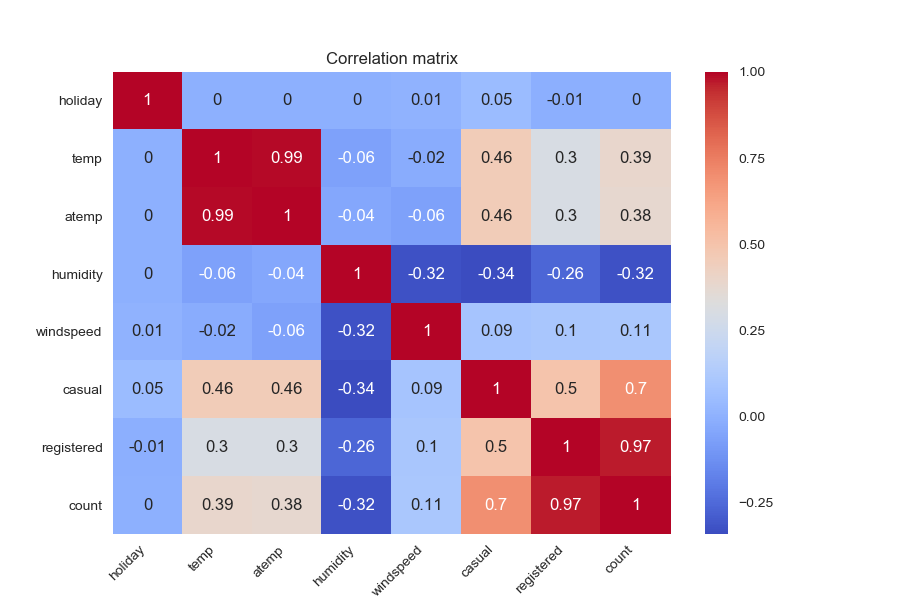
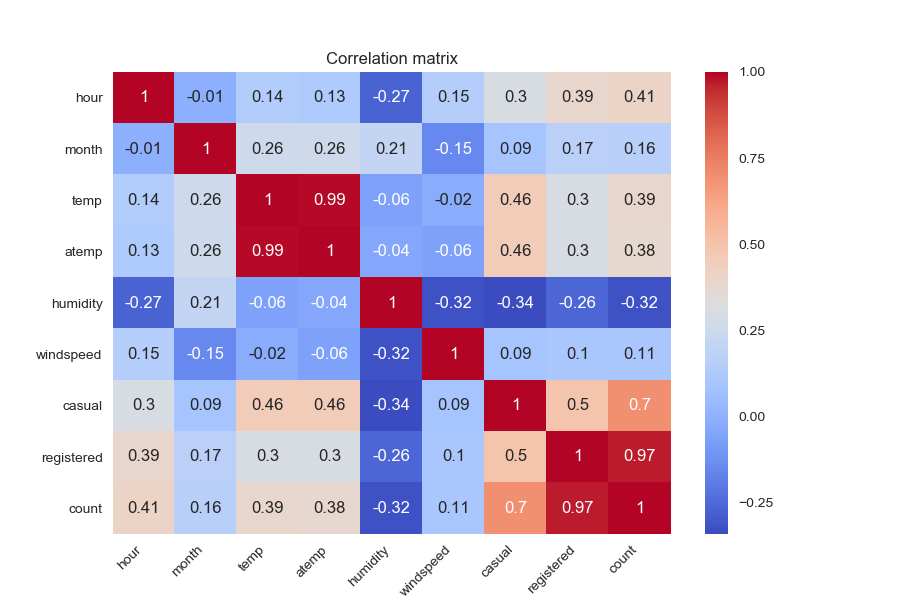
5/8

diff --git a/bikesharing.py b/bikesharing.py
@@ -7,13 +7,14 @@ sns.set()
 
 
 dataframe["hour"]=pd.DataFrame(dataframe.datetime.apply(lambda x:x.split()[1].split(":")[0]))
+dataframe['hour'] = dataframe['hour'].astype('int64')
 dataframe["month"]=pd.DataFrame(dataframe.datetime.apply(lambda x:x.split()[0].split("-")[1]))
+dataframe['month'] = dataframe['month'].astype('int64')
 dataframe["season"]=dataframe.season.map({1:"spring",2:"summer",3:"fall",4:"winter"})
-dataframe["workingday"]=dataframe.workingday.map({0:"no",1:"yes"})
+#dataframe["workingday"]=dataframe.workingday.map({0:"no",1:"yes"})
 dataframe["weather"]=dataframe.weather.map({1:"Clear",2:"Mist + Cloudy",3:"Light Snow",4:"Heavy Rain"})
 
 #Count distribution
-
 quartiles = pd.cut(dataframe["count"],10)
 def get_stats(group):
     return {'counts': group.sum()}
@@ -21,9 +22,6 @@ def get_stats(group):
 grouped = dataframe["count"].groupby(quartiles)
 count_distribution_amount = grouped.apply(get_stats).unstack()
 df=pd.DataFrame(count_distribution_amount)
-
-
-
 df.plot(kind='bar',figsize=(9, 7),rot=45)
 plt.title("count distribution")
 plt.show()
@@ -31,29 +29,35 @@ plt.show()
 
 
 #Removal of outliers 
-
 upper_bound=dataframe['count'].mean()+3*dataframe['count'].std()
 lower_bound=dataframe['count'].mean()-3*dataframe['count'].std()
 dataframe=dataframe[dataframe["count"]<upper_bound]
 dataframe=dataframe[dataframe["count"]>lower_bound]
 
+
+#Correlation matrix
+corr_data=dataframe[['hour','month','temp','atemp','humidity','windspeed','casual','registered','count']]
+corr = corr_data.corr()
+corr=corr.round(2)
+f, ax = plt.subplots(figsize=(9, 6))
+sns.heatmap(corr, xticklabels=corr.columns,yticklabels=corr.columns,annot=True,cmap='coolwarm')
+label_y = ax.get_yticklabels()
+plt.setp(label_y, rotation=360, horizontalalignment='right')
+label_x = ax.get_xticklabels()
+plt.setp(label_x, rotation=45, horizontalalignment='right')
+plt.title("Correlation matrix")
+plt.show()
+
+
+
+
+
+
 #weather statistics
-
-Clear_casual=dataframe[dataframe["weather"]=="Clear"]["casual"].sum()
-Mist_casual=dataframe[dataframe["weather"]=="Mist + Cloudy"]["casual"].sum()
-Snow_casual=dataframe[dataframe["weather"]=="Light Snow"]["casual"].sum()
-Rain_casual=dataframe[dataframe["weather"]=="Heavy Rain"]["casual"].sum()
-
-Clear_registered=dataframe[dataframe["weather"]=="Clear"]["registered"].sum()
-Mist_registered=dataframe[dataframe["weather"]=="Mist + Cloudy"]["registered"].sum()
-Snow_registered=dataframe[dataframe["weather"]=="Light Snow"]["registered"].sum()
-Rain_registered=dataframe[dataframe["weather"]=="Heavy Rain"]["registered"].sum()
-
-index=["Clear","Mist","Snow","Rain"]
-values1=[Clear_registered,Mist_registered,Snow_registered,Rain_registered]
-values2=[Clear_casual,Mist_casual,Snow_casual,Rain_casual]
-plt.bar(index,values1,color='blue')
-plt.bar(index,values2,color='red',bottom=values1)
+casual=dataframe.groupby('weather')['casual'].sum()
+registered=dataframe.groupby('weather')['registered'].sum()
+plt.bar(registered.index,registered.values,color='blue')
+plt.bar(casual.index,casual.values,color='red',bottom=registered.values)
 plt.title("Weather statistics bar chart ")
 plt.legend(["number of registered user ","number of non-registered user"])
 plt.show()
@@ -61,11 +65,11 @@ plt.show()
 
 
 # hours statistics with weather
-
 clear_data=dataframe[dataframe["weather"]=="Clear"]
 mist_data=dataframe[dataframe["weather"]=="Mist + Cloudy"]
 snow_data=dataframe[dataframe["weather"]=="Light Snow"]
 rain_data=dataframe[dataframe["weather"]=="Heavy Rain"]
+
 
 y1=clear_data.groupby('hour')['count'].mean()
 y2=mist_data.groupby('hour')['count'].mean()
@@ -123,14 +127,5 @@ plt.show()
 
 
 
-#Correlation matrix
-corr = dataframe.corr()
-corr=corr.round(2)
-f, ax = plt.subplots(figsize=(9, 6))
-sns.heatmap(corr, xticklabels=corr.columns,yticklabels=corr.columns,annot=True,cmap='coolwarm')
-label_y = ax.get_yticklabels()
-plt.setp(label_y, rotation=360, horizontalalignment='right')
-label_x = ax.get_xticklabels()
-plt.setp(label_x, rotation=45, horizontalalignment='right')
-plt.title("Correlation matrix")
-plt.show()
+
+

diff --git a/LinearRegression.py b/LinearRegression.py
@@ -1,0 +1,65 @@
+from sklearn.linear_model import LinearRegression
+from sklearn.model_selection import train_test_split
+from sklearn.model_selection import cross_val_predict
+import numpy as np
+import pandas as pd
+from sklearn import metrics
+import matplotlib.pyplot as plt
+import seaborn as sns
+sns.set()
+
+
+
+dataframe=pd.read_csv("train.csv")
+dataframe["hour"]=pd.DataFrame(dataframe.datetime.apply(lambda x:x.split()[1].split(":")[0]))
+dataframe['hour'] = dataframe['hour'].astype('int64')
+dataframe["month"]=pd.DataFrame(dataframe.datetime.apply(lambda x:x.split()[0].split("-")[1]))
+dataframe['month'] = dataframe['month'].astype('int64')
+for i in range(1,5):
+    dataframe.ix[:,i]=dataframe.ix[:,i].astype('category')
+dataset=dataframe[['hour','month','season','holiday','workingday','weather','temp','atemp','humidity','windspeed','count']]
+X = dataset.iloc[:, :-1].values
+y = dataset.iloc[:, -1].values
+X_train, X_test, y_train, y_test = train_test_split(X, y, test_size=0.005, random_state=0)
+linreg = LinearRegression()
+linreg.fit(X_train, y_train)
+print "intercept:",linreg.intercept_
+print "gradient:",linreg.coef_
+y_pred = linreg.predict(X_test)
+print "MSE:",metrics.mean_squared_error(y_test, y_pred)
+print "RMSE:",np.sqrt(metrics.mean_squared_error(y_test, y_pred))
+
+# Visualising the predicted results
+plt.scatter(y_pred,y_test,color='b')
+plt.plot([y_test.min(), y_test.max()], [y_test.min(), y_test.max()], 'k--', lw=4)
+plt.ylabel('Measured')
+plt.xlabel('Predicted')
+plt.title("Linear Regression predicted results")
+plt.show()
+
+
+#Linear regression for each feature.
+dataframe=pd.read_csv("train.csv")
+dataframe["hour"]=pd.DataFrame(dataframe.datetime.apply(lambda x:x.split()[1].split(":")[0]))
+dataframe['hour'] = dataframe['hour'].astype('int64')
+dataframe["month"]=pd.DataFrame(dataframe.datetime.apply(lambda x:x.split()[0].split("-")[1]))
+dataframe['month'] = dataframe['month'].astype('int64')
+dataset0=dataframe[['hour','month','season','holiday','workingday','weather','temp','atemp','humidity','windspeed','casual','registered','count']]
+for column in range(dataset0.shape[1]-1):
+    x0, y0=dataset0.ix[:,column].values, dataset0.ix[:,-1].values
+    x0_train, x0_test, y0_train, y0_test = train_test_split(x0, y0, test_size=0.005,random_state=0)
+    linreg=LinearRegression()
+    x0_train=x0_train.reshape(-1, 1)
+    x0_test=x0_test.reshape(-1, 1)
+    linreg.fit(x0_train,y0_train)
+    y0_pre=linreg.predict(x0_test)
+    print "gradient:",linreg.coef_
+    print "intercept:",linreg.intercept_
+    print "MSE:",metrics.mean_squared_error(y0_test, y0_pre)
+    print "RMSE:",np.sqrt(metrics.mean_squared_error(y0_test, y0_pre))
+    plt.scatter(x0_test,y0_test,color='k')
+    plt.plot(x0_test,y0_pre,color='b',linewidth=3)
+    plt.show()
+
+
+
